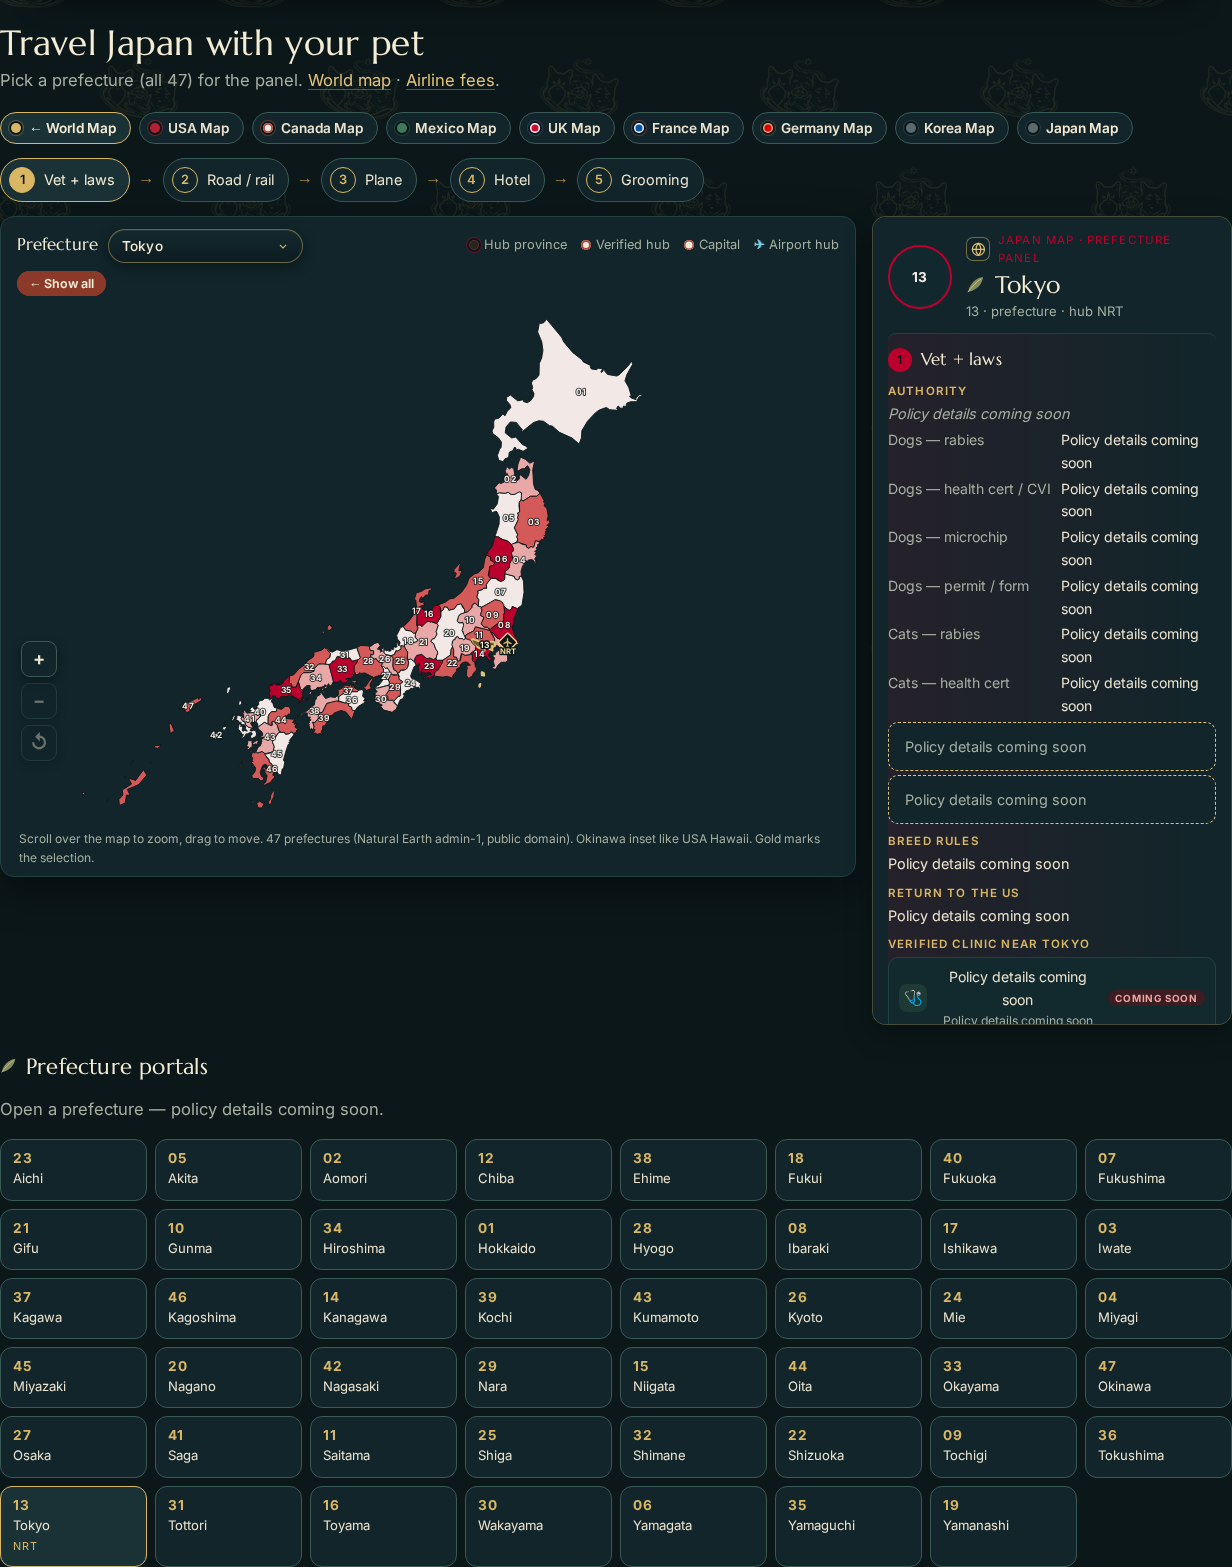
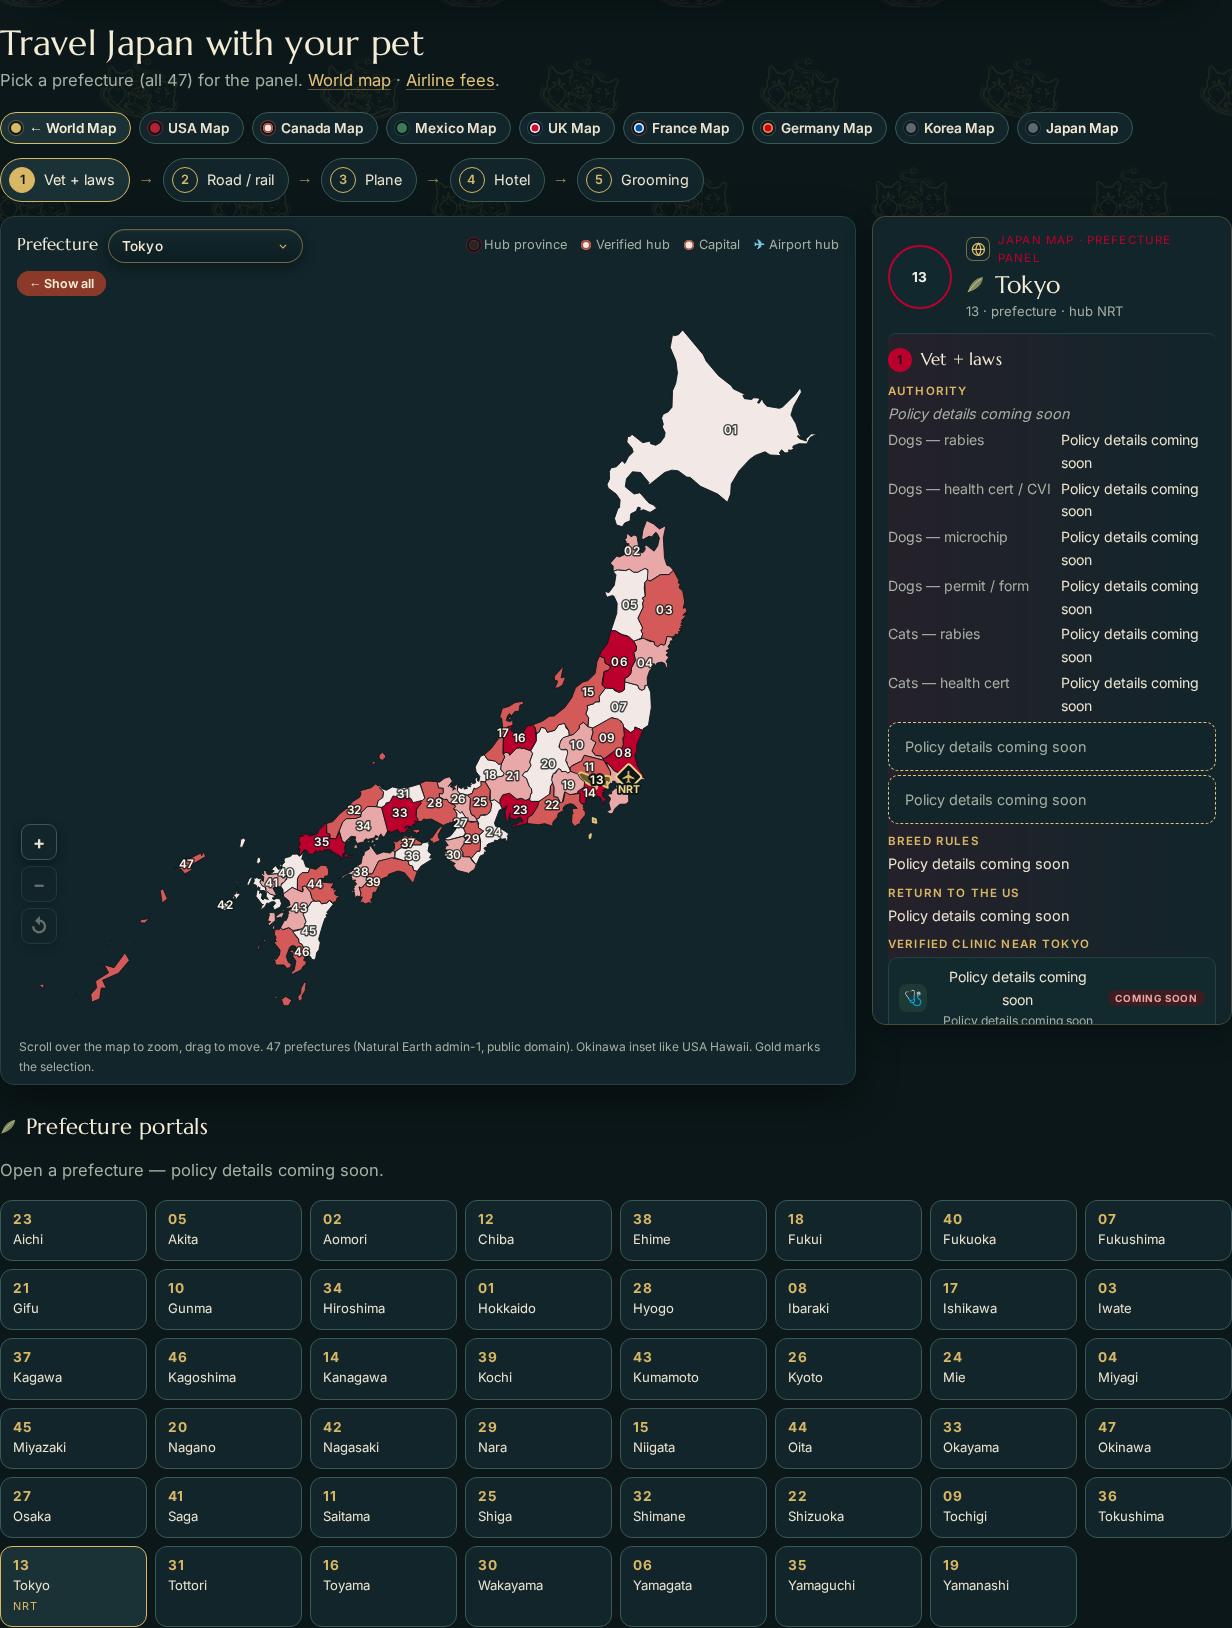
fix(japan-map): crop viewBox so mainland fills the frame
Exclude Ogasawara/Izu outliers from the fit, keep Okinawa as a Hawaii-style
inset, and set CFG.view to a tight crop so Hokkaidō–Kyūshū fill ~94% of the
map. Mobile still zooms on selection. Local only.

diff --git a/site/assets/js/country-map.js b/site/assets/js/country-map.js
@@ -374,15 +374,17 @@ function hilite(a, key, apCode){
 }
 
 /* ---------- view box: zoomTo (region select on phones) + free zoom/pan (mirrors usa-map.js) ---------- */
-const FULL=[0,0,975,610],MAXZ=8,MINW=975/MAXZ;let vb=FULL.slice(),animId=0;
-function clampVB(v){const w=Math.min(975,Math.max(MINW,v[2])),h=w*610/975;
+const FULL=(CFG.view&&CFG.view.length===4)?CFG.view.slice():[0,0,975,610];
+const MAP_W=FULL[2],MAP_H=FULL[3],MAP_X=FULL[0],MAP_Y=FULL[1];
+const MAXZ=8,MINW=MAP_W/MAXZ;let vb=FULL.slice(),animId=0;
+function clampVB(v){const w=Math.min(MAP_W,Math.max(MINW,v[2])),h=w*MAP_H/MAP_W;
  const cx=v[0]+v[2]/2,cy=v[1]+v[3]/2;let x=cx-w/2,y=cy-h/2;
- x=Math.max(0,Math.min(975-w,x));y=Math.max(0,Math.min(610-h,y));return [x,y,w,h]}
+ x=Math.max(MAP_X,Math.min(MAP_X+MAP_W-w,x));y=Math.max(MAP_Y,Math.min(MAP_Y+MAP_H-h,y));return [x,y,w,h]}
 function applyViewBox(v){vb=v.slice();const m=$('#map');if(!m)return;
- const k=vb[2]/975;m.setAttribute('viewBox',vb.map(n=>+n.toFixed(2)).join(' '));m.style.setProperty('--k',k.toFixed(3));m.style.setProperty('--kt',Math.sqrt(k).toFixed(3));
+ const k=vb[2]/MAP_W;m.setAttribute('viewBox',vb.map(n=>+n.toFixed(2)).join(' '));m.style.setProperty('--k',k.toFixed(3));m.style.setProperty('--kt',Math.sqrt(k).toFixed(3));
  m.querySelectorAll('#g-ap .ap').forEach(g=>{const b=g.dataset.at||(g.dataset.at=g.getAttribute('transform'));g.setAttribute('transform',k>0.999?b:b+' scale('+k.toFixed(4)+')');});
  syncZoomUI()}
-function isFull(){return vb[2]>=974.5}
+function isFull(){return vb[2]>=MAP_W-0.5}
 function syncZoomUI(){const m=$('#map');if(!m)return;const full=isFull();m.classList.toggle('is-zoomed',!full);
  const zi=$('#zin'),zo=$('#zout'),zr=$('#zreset');
  if(zi)zi.disabled=vb[2]<=MINW+0.5;if(zo)zo.disabled=full;if(zr)zr.disabled=full}
@@ -391,11 +393,11 @@ function animateTo(t,ms){stopAnim();t=clampVB(t);const f=vb.slice(),t0=performan
  (function an(n){const k=Math.min(1,(n-t0)/ms),e=k*(2-k);applyViewBox(f.map((v,i)=>v+(t[i]-v)*e));animId=k<1?requestAnimationFrame(an):0})(t0)}
 /* Phones (<=900): zoom into the selected region. Desktop keeps free-zoom unless clearing selection. */
 function zoomTo(a){let t=null;
- if(a&&innerWidth<=900){const node=$('#s-'+a);if(node){const b=node.getBBox();const w=Math.max(b.width*1.5,220),h=Math.max(b.height*1.5,150);const sc=Math.max(w/975,h/610);const W=975*sc,H=610*sc;t=[b.x+b.width/2-W/2,b.y+b.height/2-H/2,W,H];}}
+ if(a&&innerWidth<=900){const node=$('#s-'+a);if(node){const b=node.getBBox();const w=Math.max(b.width*1.5,220),h=Math.max(b.height*1.5,150);const sc=Math.max(w/MAP_W,h/MAP_H);const W=MAP_W*sc,H=MAP_H*sc;t=[b.x+b.width/2-W/2,b.y+b.height/2-H/2,W,H];}}
  else if(!cur)t=FULL;
  if(t)animateTo(t,350)}
-function zoomAt(px,py,f,ms){const w=Math.min(975,Math.max(MINW,vb[2]/f)),s=w/vb[2];
- const t=[px-(px-vb[0])*s,py-(py-vb[1])*s,w,w*610/975];if(ms)animateTo(t,ms);else{stopAnim();applyViewBox(clampVB(t))}}
+function zoomAt(px,py,f,ms){const w=Math.min(MAP_W,Math.max(MINW,vb[2]/f)),s=w/vb[2];
+ const t=[px-(px-vb[0])*s,py-(py-vb[1])*s,w,w*MAP_H/MAP_W];if(ms)animateTo(t,ms);else{stopAnim();applyViewBox(clampVB(t))}}
 
 function render(html){
   const p=$('#panel'); p.innerHTML=html; p.scrollTop=0; applyStep(false);
@@ -539,7 +541,7 @@ function initFreeZoom(){const m=$('#map');if(!m)return;
  if(note&&!note.querySelector('.mhint')){note.insertAdjacentHTML('afterbegin','<span class="mhint">Pinch with two fingers to zoom, swipe sideways to move the map. </span><span class="dhint">Scroll over the map to zoom, drag to move. </span>')}
  syncZoomUI();
  const toSVG=(cx,cy)=>{const r=m.getBoundingClientRect();return [vb[0]+(cx-r.left)*vb[2]/r.width,vb[1]+(cy-r.top)*vb[3]/r.height]};
- const perPx=()=>vb[2]/(m.getBoundingClientRect().width||975);
+ const perPx=()=>vb[2]/(m.getBoundingClientRect().width||MAP_W);
  let eatClick=false;
  m.addEventListener('click',e=>{if(eatClick){eatClick=false;e.stopPropagation();e.preventDefault()}},true);
  const armEat=()=>{eatClick=true;setTimeout(()=>{eatClick=false},350)};
@@ -561,7 +563,7 @@ function initFreeZoom(){const m=$('#map');if(!m)return;
  m.addEventListener('touchmove',e=>{
   if(mode==='pinch'&&e.touches.length>=2){if(!e.cancelable)return;e.preventDefault();
    const a=e.touches[0],b=e.touches[1],c=mid(a,b),r=m.getBoundingClientRect();
-   const w=Math.min(975,Math.max(MINW,T0[2]*P0.d/dist(a,b))),h=w*610/975;
+   const w=Math.min(MAP_W,Math.max(MINW,T0[2]*P0.d/dist(a,b))),h=w*MAP_H/MAP_W;
    applyViewBox(clampVB([P0.w[0]-(c[0]-r.left)*w/r.width,P0.w[1]-(c[1]-r.top)*h/r.height,w,h]));return}
   if(mode==='maybe'){const t=e.touches[0],dx=t.clientX-c0[0],dy=t.clientY-c0[1];
    if(Math.abs(dx)<8&&Math.abs(dy)<8)return;

diff --git a/static/assets/js/country-map.js b/static/assets/js/country-map.js
@@ -374,15 +374,17 @@ function hilite(a, key, apCode){
 }
 
 /* ---------- view box: zoomTo (region select on phones) + free zoom/pan (mirrors usa-map.js) ---------- */
-const FULL=[0,0,975,610],MAXZ=8,MINW=975/MAXZ;let vb=FULL.slice(),animId=0;
-function clampVB(v){const w=Math.min(975,Math.max(MINW,v[2])),h=w*610/975;
+const FULL=(CFG.view&&CFG.view.length===4)?CFG.view.slice():[0,0,975,610];
+const MAP_W=FULL[2],MAP_H=FULL[3],MAP_X=FULL[0],MAP_Y=FULL[1];
+const MAXZ=8,MINW=MAP_W/MAXZ;let vb=FULL.slice(),animId=0;
+function clampVB(v){const w=Math.min(MAP_W,Math.max(MINW,v[2])),h=w*MAP_H/MAP_W;
  const cx=v[0]+v[2]/2,cy=v[1]+v[3]/2;let x=cx-w/2,y=cy-h/2;
- x=Math.max(0,Math.min(975-w,x));y=Math.max(0,Math.min(610-h,y));return [x,y,w,h]}
+ x=Math.max(MAP_X,Math.min(MAP_X+MAP_W-w,x));y=Math.max(MAP_Y,Math.min(MAP_Y+MAP_H-h,y));return [x,y,w,h]}
 function applyViewBox(v){vb=v.slice();const m=$('#map');if(!m)return;
- const k=vb[2]/975;m.setAttribute('viewBox',vb.map(n=>+n.toFixed(2)).join(' '));m.style.setProperty('--k',k.toFixed(3));m.style.setProperty('--kt',Math.sqrt(k).toFixed(3));
+ const k=vb[2]/MAP_W;m.setAttribute('viewBox',vb.map(n=>+n.toFixed(2)).join(' '));m.style.setProperty('--k',k.toFixed(3));m.style.setProperty('--kt',Math.sqrt(k).toFixed(3));
  m.querySelectorAll('#g-ap .ap').forEach(g=>{const b=g.dataset.at||(g.dataset.at=g.getAttribute('transform'));g.setAttribute('transform',k>0.999?b:b+' scale('+k.toFixed(4)+')');});
  syncZoomUI()}
-function isFull(){return vb[2]>=974.5}
+function isFull(){return vb[2]>=MAP_W-0.5}
 function syncZoomUI(){const m=$('#map');if(!m)return;const full=isFull();m.classList.toggle('is-zoomed',!full);
  const zi=$('#zin'),zo=$('#zout'),zr=$('#zreset');
  if(zi)zi.disabled=vb[2]<=MINW+0.5;if(zo)zo.disabled=full;if(zr)zr.disabled=full}
@@ -391,11 +393,11 @@ function animateTo(t,ms){stopAnim();t=clampVB(t);const f=vb.slice(),t0=performan
  (function an(n){const k=Math.min(1,(n-t0)/ms),e=k*(2-k);applyViewBox(f.map((v,i)=>v+(t[i]-v)*e));animId=k<1?requestAnimationFrame(an):0})(t0)}
 /* Phones (<=900): zoom into the selected region. Desktop keeps free-zoom unless clearing selection. */
 function zoomTo(a){let t=null;
- if(a&&innerWidth<=900){const node=$('#s-'+a);if(node){const b=node.getBBox();const w=Math.max(b.width*1.5,220),h=Math.max(b.height*1.5,150);const sc=Math.max(w/975,h/610);const W=975*sc,H=610*sc;t=[b.x+b.width/2-W/2,b.y+b.height/2-H/2,W,H];}}
+ if(a&&innerWidth<=900){const node=$('#s-'+a);if(node){const b=node.getBBox();const w=Math.max(b.width*1.5,220),h=Math.max(b.height*1.5,150);const sc=Math.max(w/MAP_W,h/MAP_H);const W=MAP_W*sc,H=MAP_H*sc;t=[b.x+b.width/2-W/2,b.y+b.height/2-H/2,W,H];}}
  else if(!cur)t=FULL;
  if(t)animateTo(t,350)}
-function zoomAt(px,py,f,ms){const w=Math.min(975,Math.max(MINW,vb[2]/f)),s=w/vb[2];
- const t=[px-(px-vb[0])*s,py-(py-vb[1])*s,w,w*610/975];if(ms)animateTo(t,ms);else{stopAnim();applyViewBox(clampVB(t))}}
+function zoomAt(px,py,f,ms){const w=Math.min(MAP_W,Math.max(MINW,vb[2]/f)),s=w/vb[2];
+ const t=[px-(px-vb[0])*s,py-(py-vb[1])*s,w,w*MAP_H/MAP_W];if(ms)animateTo(t,ms);else{stopAnim();applyViewBox(clampVB(t))}}
 
 function render(html){
   const p=$('#panel'); p.innerHTML=html; p.scrollTop=0; applyStep(false);
@@ -539,7 +541,7 @@ function initFreeZoom(){const m=$('#map');if(!m)return;
  if(note&&!note.querySelector('.mhint')){note.insertAdjacentHTML('afterbegin','<span class="mhint">Pinch with two fingers to zoom, swipe sideways to move the map. </span><span class="dhint">Scroll over the map to zoom, drag to move. </span>')}
  syncZoomUI();
  const toSVG=(cx,cy)=>{const r=m.getBoundingClientRect();return [vb[0]+(cx-r.left)*vb[2]/r.width,vb[1]+(cy-r.top)*vb[3]/r.height]};
- const perPx=()=>vb[2]/(m.getBoundingClientRect().width||975);
+ const perPx=()=>vb[2]/(m.getBoundingClientRect().width||MAP_W);
  let eatClick=false;
  m.addEventListener('click',e=>{if(eatClick){eatClick=false;e.stopPropagation();e.preventDefault()}},true);
  const armEat=()=>{eatClick=true;setTimeout(()=>{eatClick=false},350)};
@@ -561,7 +563,7 @@ function initFreeZoom(){const m=$('#map');if(!m)return;
  m.addEventListener('touchmove',e=>{
   if(mode==='pinch'&&e.touches.length>=2){if(!e.cancelable)return;e.preventDefault();
    const a=e.touches[0],b=e.touches[1],c=mid(a,b),r=m.getBoundingClientRect();
-   const w=Math.min(975,Math.max(MINW,T0[2]*P0.d/dist(a,b))),h=w*610/975;
+   const w=Math.min(MAP_W,Math.max(MINW,T0[2]*P0.d/dist(a,b))),h=w*MAP_H/MAP_W;
    applyViewBox(clampVB([P0.w[0]-(c[0]-r.left)*w/r.width,P0.w[1]-(c[1]-r.top)*h/r.height,w,h]));return}
   if(mode==='maybe'){const t=e.touches[0],dx=t.clientX-c0[0],dy=t.clientY-c0[1];
    if(Math.abs(dx)<8&&Math.abs(dy)<8)return;

diff --git a/site/countries/japan-map.html b/site/countries/japan-map.html
@@ -90,7 +90,7 @@ if(document.readyState==='loading')document.addEventListener('DOMContentLoaded',
    <div class="legend"><span><i style="background:#2a2420;border:1px solid #b5473a55"></i>Hub province</span><span><i style="background:#edeae2;box-shadow:inset 0 0 0 2px #b5473a"></i>Verified hub</span><span><i style="background:#edeae2;box-shadow:inset 0 0 0 1.5px #b5473a"></i>Capital</span><span><b class="lg-ap">✈</b>Airport hub</span></div>
   </div>
   <button class="btn ghost" type="button" id="reset" hidden>Show all</button>
-  <svg id="map" viewBox="0 0 975 610" role="group" aria-label="Japan prefectures"><g id="g-st"></g><g id="g-lb"></g><g id="g-ct"></g><g id="g-ap"></g></svg>
+  <svg id="map" viewBox="58.2 -4.0 704.9 618.0" role="group" aria-label="Japan prefectures"><g id="g-st"></g><g id="g-lb"></g><g id="g-ct"></g><g id="g-ap"></g></svg>
   <p class="mapnote">47 prefectures (Natural Earth admin-1, public domain). Okinawa inset like USA Hawaii. Gold marks the selection.</p>
  </section>
  <aside class="card panel" id="panel" aria-live="polite"></aside>
@@ -101,10 +101,10 @@ if(document.readyState==='loading')document.addEventListener('DOMContentLoaded',
  <div class="grid" id="grid"></div>
 </section>
 </div>
-<script src="../assets/js/japan-map-geo.js?v=krjp5"></script>
-<script src="../assets/js/japan-map-data.js?v=krjp5"></script>
-<script>window.PPC_MAP={geo:window.JP_GEO,airports:window.JP_GEO_AIRPORTS,data:window.JP_MAP_DATA,accent:"hinomaru",idRoot:"country-map"};</script>
-<script src="../assets/js/country-map.js?v=krjp1"></script>
+<script src="../assets/js/japan-map-geo.js?v=krjp6"></script>
+<script src="../assets/js/japan-map-data.js?v=krjp6"></script>
+<script>window.PPC_MAP={geo:window.JP_GEO,airports:window.JP_GEO_AIRPORTS,data:window.JP_MAP_DATA,accent:"hinomaru",idRoot:"country-map",view:[58.2, -4.0, 704.9, 618.0]};</script>
+<script src="../assets/js/country-map.js?v=krjp6"></script>
 </main>
 <footer class="foot foot-compact">
 <div class="wrap cols">

diff --git a/static/countries/japan-map.html b/static/countries/japan-map.html
@@ -90,7 +90,7 @@ if(document.readyState==='loading')document.addEventListener('DOMContentLoaded',
    <div class="legend"><span><i style="background:#2a2420;border:1px solid #b5473a55"></i>Hub province</span><span><i style="background:#edeae2;box-shadow:inset 0 0 0 2px #b5473a"></i>Verified hub</span><span><i style="background:#edeae2;box-shadow:inset 0 0 0 1.5px #b5473a"></i>Capital</span><span><b class="lg-ap">✈</b>Airport hub</span></div>
   </div>
   <button class="btn ghost" type="button" id="reset" hidden>Show all</button>
-  <svg id="map" viewBox="0 0 975 610" role="group" aria-label="Japan prefectures"><g id="g-st"></g><g id="g-lb"></g><g id="g-ct"></g><g id="g-ap"></g></svg>
+  <svg id="map" viewBox="58.2 -4.0 704.9 618.0" role="group" aria-label="Japan prefectures"><g id="g-st"></g><g id="g-lb"></g><g id="g-ct"></g><g id="g-ap"></g></svg>
   <p class="mapnote">47 prefectures (Natural Earth admin-1, public domain). Okinawa inset like USA Hawaii. Gold marks the selection.</p>
  </section>
  <aside class="card panel" id="panel" aria-live="polite"></aside>
@@ -101,10 +101,10 @@ if(document.readyState==='loading')document.addEventListener('DOMContentLoaded',
  <div class="grid" id="grid"></div>
 </section>
 </div>
-<script src="../assets/js/japan-map-geo.js?v=krjp5"></script>
-<script src="../assets/js/japan-map-data.js?v=krjp5"></script>
-<script>window.PPC_MAP={geo:window.JP_GEO,airports:window.JP_GEO_AIRPORTS,data:window.JP_MAP_DATA,accent:"hinomaru",idRoot:"country-map"};</script>
-<script src="../assets/js/country-map.js?v=krjp1"></script>
+<script src="../assets/js/japan-map-geo.js?v=krjp6"></script>
+<script src="../assets/js/japan-map-data.js?v=krjp6"></script>
+<script>window.PPC_MAP={geo:window.JP_GEO,airports:window.JP_GEO_AIRPORTS,data:window.JP_MAP_DATA,accent:"hinomaru",idRoot:"country-map",view:[58.2, -4.0, 704.9, 618.0]};</script>
+<script src="../assets/js/country-map.js?v=krjp6"></script>
 </main>
 <footer class="foot foot-compact">
 <div class="wrap cols">

diff --git a/site/countries/germany-map.html b/site/countries/germany-map.html
@@ -102,7 +102,7 @@ if(document.readyState==='loading')document.addEventListener('DOMContentLoaded',
 <script src="../assets/js/germany-map-geo.js?v=eu20261110"></script>
 <script src="../assets/js/germany-map-data.js?v=eu20261110"></script>
 <script>window.PPC_MAP={geo:window.DE_GEO,airports:window.DE_GEO_AIRPORTS,data:window.DE_MAP_DATA,accent:"schwarzrotgold",idRoot:"country-map"};</script>
-<script src="../assets/js/country-map.js?v=krjp1"></script>
+<script src="../assets/js/country-map.js?v=krjp6"></script>
 </main>
 <footer class="foot foot-compact">
 <div class="wrap cols">

diff --git a/static/countries/germany-map.html b/static/countries/germany-map.html
@@ -102,7 +102,7 @@ if(document.readyState==='loading')document.addEventListener('DOMContentLoaded',
 <script src="../assets/js/germany-map-geo.js?v=eu20261110"></script>
 <script src="../assets/js/germany-map-data.js?v=eu20261110"></script>
 <script>window.PPC_MAP={geo:window.DE_GEO,airports:window.DE_GEO_AIRPORTS,data:window.DE_MAP_DATA,accent:"schwarzrotgold",idRoot:"country-map"};</script>
-<script src="../assets/js/country-map.js?v=krjp1"></script>
+<script src="../assets/js/country-map.js?v=krjp6"></script>
 </main>
 <footer class="foot foot-compact">
 <div class="wrap cols">

diff --git a/site/countries/france-map.html b/site/countries/france-map.html
@@ -102,7 +102,7 @@ if(document.readyState==='loading')document.addEventListener('DOMContentLoaded',
 <script src="../assets/js/france-map-geo.js?v=eu20261110"></script>
 <script src="../assets/js/france-map-data.js?v=eu20261110"></script>
 <script>window.PPC_MAP={geo:window.FR_GEO,airports:window.FR_GEO_AIRPORTS,data:window.FR_MAP_DATA,accent:"tricolore",idRoot:"country-map"};</script>
-<script src="../assets/js/country-map.js?v=krjp1"></script>
+<script src="../assets/js/country-map.js?v=krjp6"></script>
 </main>
 <footer class="foot foot-compact">
 <div class="wrap cols">

diff --git a/static/countries/france-map.html b/static/countries/france-map.html
@@ -102,7 +102,7 @@ if(document.readyState==='loading')document.addEventListener('DOMContentLoaded',
 <script src="../assets/js/france-map-geo.js?v=eu20261110"></script>
 <script src="../assets/js/france-map-data.js?v=eu20261110"></script>
 <script>window.PPC_MAP={geo:window.FR_GEO,airports:window.FR_GEO_AIRPORTS,data:window.FR_MAP_DATA,accent:"tricolore",idRoot:"country-map"};</script>
-<script src="../assets/js/country-map.js?v=krjp1"></script>
+<script src="../assets/js/country-map.js?v=krjp6"></script>
 </main>
 <footer class="foot foot-compact">
 <div class="wrap cols">

diff --git a/site/countries/south-korea-map.html b/site/countries/south-korea-map.html
@@ -104,7 +104,7 @@ if(document.readyState==='loading')document.addEventListener('DOMContentLoaded',
 <script src="../assets/js/south-korea-map-geo.js?v=krjp1"></script>
 <script src="../assets/js/south-korea-map-data.js?v=krjp1"></script>
 <script>window.PPC_MAP={geo:window.KR_GEO,airports:window.KR_GEO_AIRPORTS,data:window.KR_MAP_DATA,accent:"taegeuk",idRoot:"country-map"};</script>
-<script src="../assets/js/country-map.js?v=krjp1"></script>
+<script src="../assets/js/country-map.js?v=krjp6"></script>
 </main>
 <footer class="foot foot-compact">
 <div class="wrap cols">

diff --git a/static/countries/south-korea-map.html b/static/countries/south-korea-map.html
@@ -104,7 +104,7 @@ if(document.readyState==='loading')document.addEventListener('DOMContentLoaded',
 <script src="../assets/js/south-korea-map-geo.js?v=krjp1"></script>
 <script src="../assets/js/south-korea-map-data.js?v=krjp1"></script>
 <script>window.PPC_MAP={geo:window.KR_GEO,airports:window.KR_GEO_AIRPORTS,data:window.KR_MAP_DATA,accent:"taegeuk",idRoot:"country-map"};</script>
-<script src="../assets/js/country-map.js?v=krjp1"></script>
+<script src="../assets/js/country-map.js?v=krjp6"></script>
 </main>
 <footer class="foot foot-compact">
 <div class="wrap cols">

diff --git a/site/countries/canada-map.html b/site/countries/canada-map.html
@@ -103,7 +103,7 @@ if(document.readyState==='loading')document.addEventListener('DOMContentLoaded',
 <script src="../assets/js/canada-map-geo.js?v=20290a3d"></script>
 <script src="../assets/js/canada-map-data.js?v=20261109soft1"></script>
 <script>window.PPC_MAP={geo:window.CA_GEO,airports:window.CA_GEO_AIRPORTS,data:window.CA_MAP_DATA,accent:"maple",idRoot:"country-map"};</script>
-<script src="../assets/js/country-map.js?v=krjp1"></script>
+<script src="../assets/js/country-map.js?v=krjp6"></script>
 </main>
 <footer class="foot foot-compact">
 <div class="wrap cols">

diff --git a/static/countries/canada-map.html b/static/countries/canada-map.html
@@ -103,7 +103,7 @@ if(document.readyState==='loading')document.addEventListener('DOMContentLoaded',
 <script src="../assets/js/canada-map-geo.js?v=20290a3d"></script>
 <script src="../assets/js/canada-map-data.js?v=20261109soft1"></script>
 <script>window.PPC_MAP={geo:window.CA_GEO,airports:window.CA_GEO_AIRPORTS,data:window.CA_MAP_DATA,accent:"maple",idRoot:"country-map"};</script>
-<script src="../assets/js/country-map.js?v=krjp1"></script>
+<script src="../assets/js/country-map.js?v=krjp6"></script>
 </main>
 <footer class="foot foot-compact">
 <div class="wrap cols">
